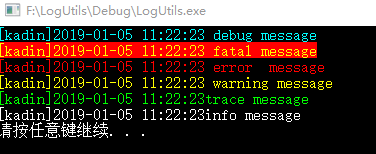
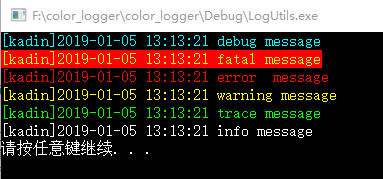
color change
change linux color seems like windows;

diff --git a/LogUtils/logger.cpp b/LogUtils/logger.cpp
@@ -131,12 +131,12 @@ namespace kadin {
 
 		switch (level)
 		{
-		case LEVEL_DEBUG: color = "\033[32m["; break;
-		case LEVEL_INFO: color = "\033[33m["; break;
-		case LEVEL_TRACE: color = "\033[36m["; break;
-		case LEVEL_WARN: color = "\033[35m["; break;
-		case LEVEL_ERROR: color = "\033[31m["; break;
-		case LEVEL_FATAL: color = "\033[31m["; break;
+		case LEVEL_DEBUG: color = "\033[3m["; break;
+		case LEVEL_INFO: color = "\033[0m["; break;
+		case LEVEL_TRACE: color = "\033[1;32m["; break;
+		case LEVEL_WARN: color = "\033[1:33m["; break;
+		case LEVEL_ERROR: color = "\033[1:31m["; break;
+		case LEVEL_FATAL: color = "\033[1;33;41m["; break;
 		default:break;
 		}
 		color += _name;
@@ -173,7 +173,12 @@ namespace kadin {
 		{
 			fprintf(_console, "%s", color.c_str());
 			vfprintf(_console, pattern, vp);
+#ifdef linux
+			fprintf(_console, "\033[0m\n");
+#else
 			fprintf(_console, "\n");
+#endif 
+			
 			fflush(_console);
 		}
 
@@ -181,7 +186,11 @@ namespace kadin {
 		{
 			fprintf(_file, "%s", color.c_str());
 			vfprintf(_file, pattern, vp2);
+#ifdef linux
+			fprintf(_file, "\033[0m\n");
+#else
 			fprintf(_file, "\n");
+#endif 
 			fflush(_file);
 		}
 		va_end(vp2);

diff --git a/LogUtils/LogUtils.cpp b/LogUtils/LogUtils.cpp
@@ -12,9 +12,11 @@ int main()
 	log.fatal(" fatal message");
 	log.error(" error  message");
 	log.warn(" warning message");
-	log.trace("trace message");
-	log.info("info message");
+	log.trace(" trace message");
+	log.info(" info message");
+#ifndef linux
 	system("pause");
+#endif
 
 }
 
